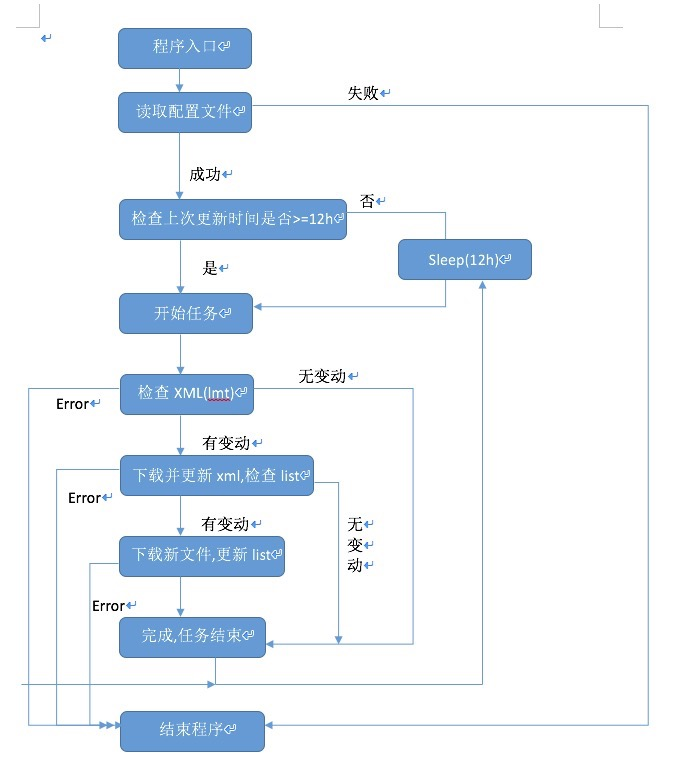
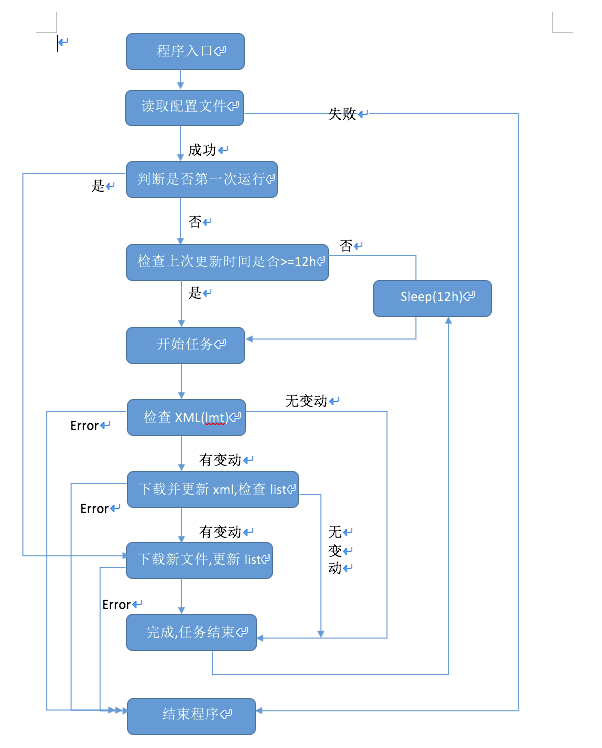
蜗速coding...

diff --git a/assm.py b/assm.py
@@ -3,6 +3,7 @@
 import getopt
 import os
 import sys
+import urllib
 import urllib2
 import json
 import time
@@ -20,10 +21,11 @@ flags = "null"
 global timee
 timee = [0]
 
-urllist = ("/","/extras/auto/","/extras/gapid/","/extras/intel/")
+urllist = ("/","/extras/auto/","/extras/gapid/","/extras/intel/","/sys-img/android/","/sys-img/android-tv/","/sys-img/android-wear/","/sys-img/google_apis/","/sys-img/x86/")
 
-crlog = Logger() #实例化日志管理类
+crlog = Logger(logdir) #实例化日志管理类
 my = Hparser()   #实例化解析类
+
 
 # 程序入口,参数操作
 option,args = getopt.getopt(sys.argv[1:],"Vhs:",["version","help","start","stop","status"])
@@ -72,7 +74,6 @@ def pconfig():
 def getlist(url):
     #url = "http://mirrors.opencas.cn/android/repository/"
     str = urllib2.urlopen(url, timeout=10).read()
-
     my.feed(str)
     strlist = my.xs
     newdat = []
@@ -82,8 +83,7 @@ def getlist(url):
             newdat.append(strlist[x])
         if strlist[x].split('.')[-1] == "zip":
             newdat.append(strlist[x])
-    for x in newdat:
-        print url+x
+    my.xs = []
     return newdat
 
 #urllib.urlretrieve的参数reporthook回调函数
@@ -130,11 +130,57 @@ def checkfile(url):
     # last work point ~~~~~~~~~~~~~~~~~~~~~~~~~~~~~~~~~~~~~~~~~
     pass
 
+def listanalyser(url):
+
+    pass
+
+#下载并写入status.list
+def downandwrite(liist):
+    global syncdir
+    global upstream
+    for x in liist:
+        urllib.urlretrieve(upstream + x, syncdir+ x, reporthook=report)
+
+    pass
+
+#判断是不是第一次运行
+def isFirstrun():
+
+    global syncdir
+    if not os.path.exists("./status.list"):
+        crlog.info("first run")
+        #创建文件夹
+        crlog.info("create related directory")
+        for x in urllist:
+            os.makedirs(syncdir + x)
+
+        # 传入list并调用downandwrite()
+        pass
+    else:
+        crlog.info("not first, will check last sync time")
+        # 调用 检查上次更新时间 函数
+        pass
+    pass
 
 #默认执行顺序列表
 pconfig()
-getlist(upstream+urllist[0])
-getlist(upstream+urllist[1])
-getlist(upstream+urllist[2])
-getlist(upstream+urllist[3])
+for x1 in getlist(upstream+urllist[0]):
+    print x1
+for x2 in getlist(upstream+urllist[1]):
+    print x2
+for x3 in getlist(upstream+urllist[2]):
+    print x3
+for x4 in getlist(upstream+urllist[3]):
+    print x4
+for x5 in getlist(upstream+urllist[4]):
+    print x5
+for x6 in getlist(upstream+urllist[5]):
+    print x6
+for x7 in getlist(upstream+urllist[6]):
+    print x7
+for x8 in getlist(upstream+urllist[7]):
+    print x8
+for x9 in getlist(upstream+urllist[8]):
+    print x9
+
 

diff --git a/loger.py b/loger.py
@@ -8,21 +8,20 @@ import time
 #__metaclass__ = type
 
 class Logger(object):
-    def __init__(self):
-        filename = time.strftime('%Y-%m-%d',time.localtime(time.time()))
+    # 构造函数初始化日志类的相关配置
+    def __init__(self,logdir):
+        filename = time.strftime('%Y-%m-%d',time.localtime(time.time())) # 获取当前时间
         logging.basicConfig(level = logging.DEBUG,
                             format = '%(asctime)s [%(levelname)s] %(message)s',
-                            datefmt='%Y-%m-%d %H:%M:%S',
-                            filename = filename + ".log",
+                            datefmt ='%Y-%m-%d %H:%M:%S',
+                            filename = logdir + "assm " + filename + ".log",
                             filemode = 'a'
         )
-
+        # 日志输出到控制台
         tlog = logging.StreamHandler()
         tlog.setLevel(logging.DEBUG)
-
         formatter = logging.Formatter('%(asctime)s [%(levelname)s] %(message)s')
         tlog.setFormatter(formatter)
-
         logging.getLogger("").addHandler(tlog)
 
     def debug(self,msg):
